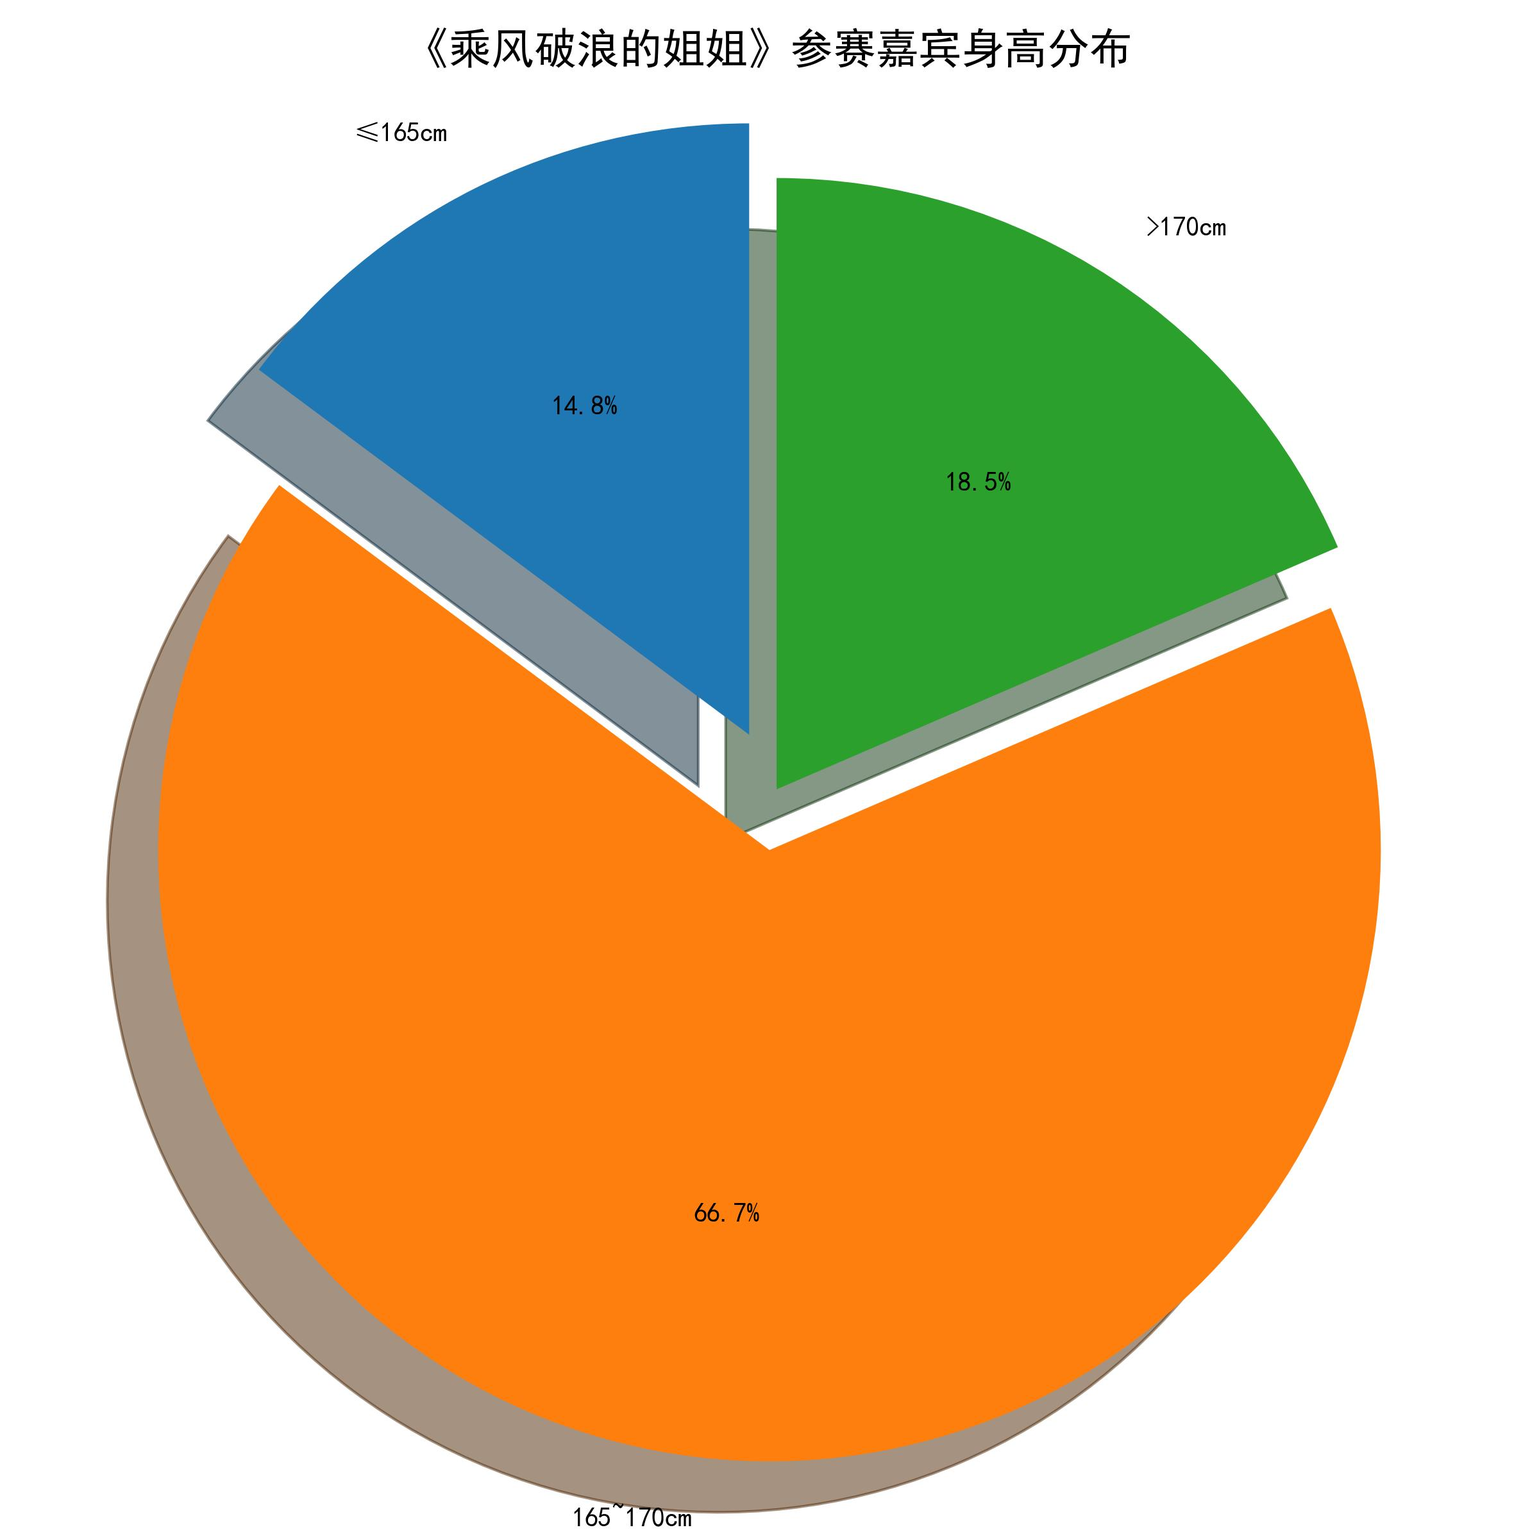
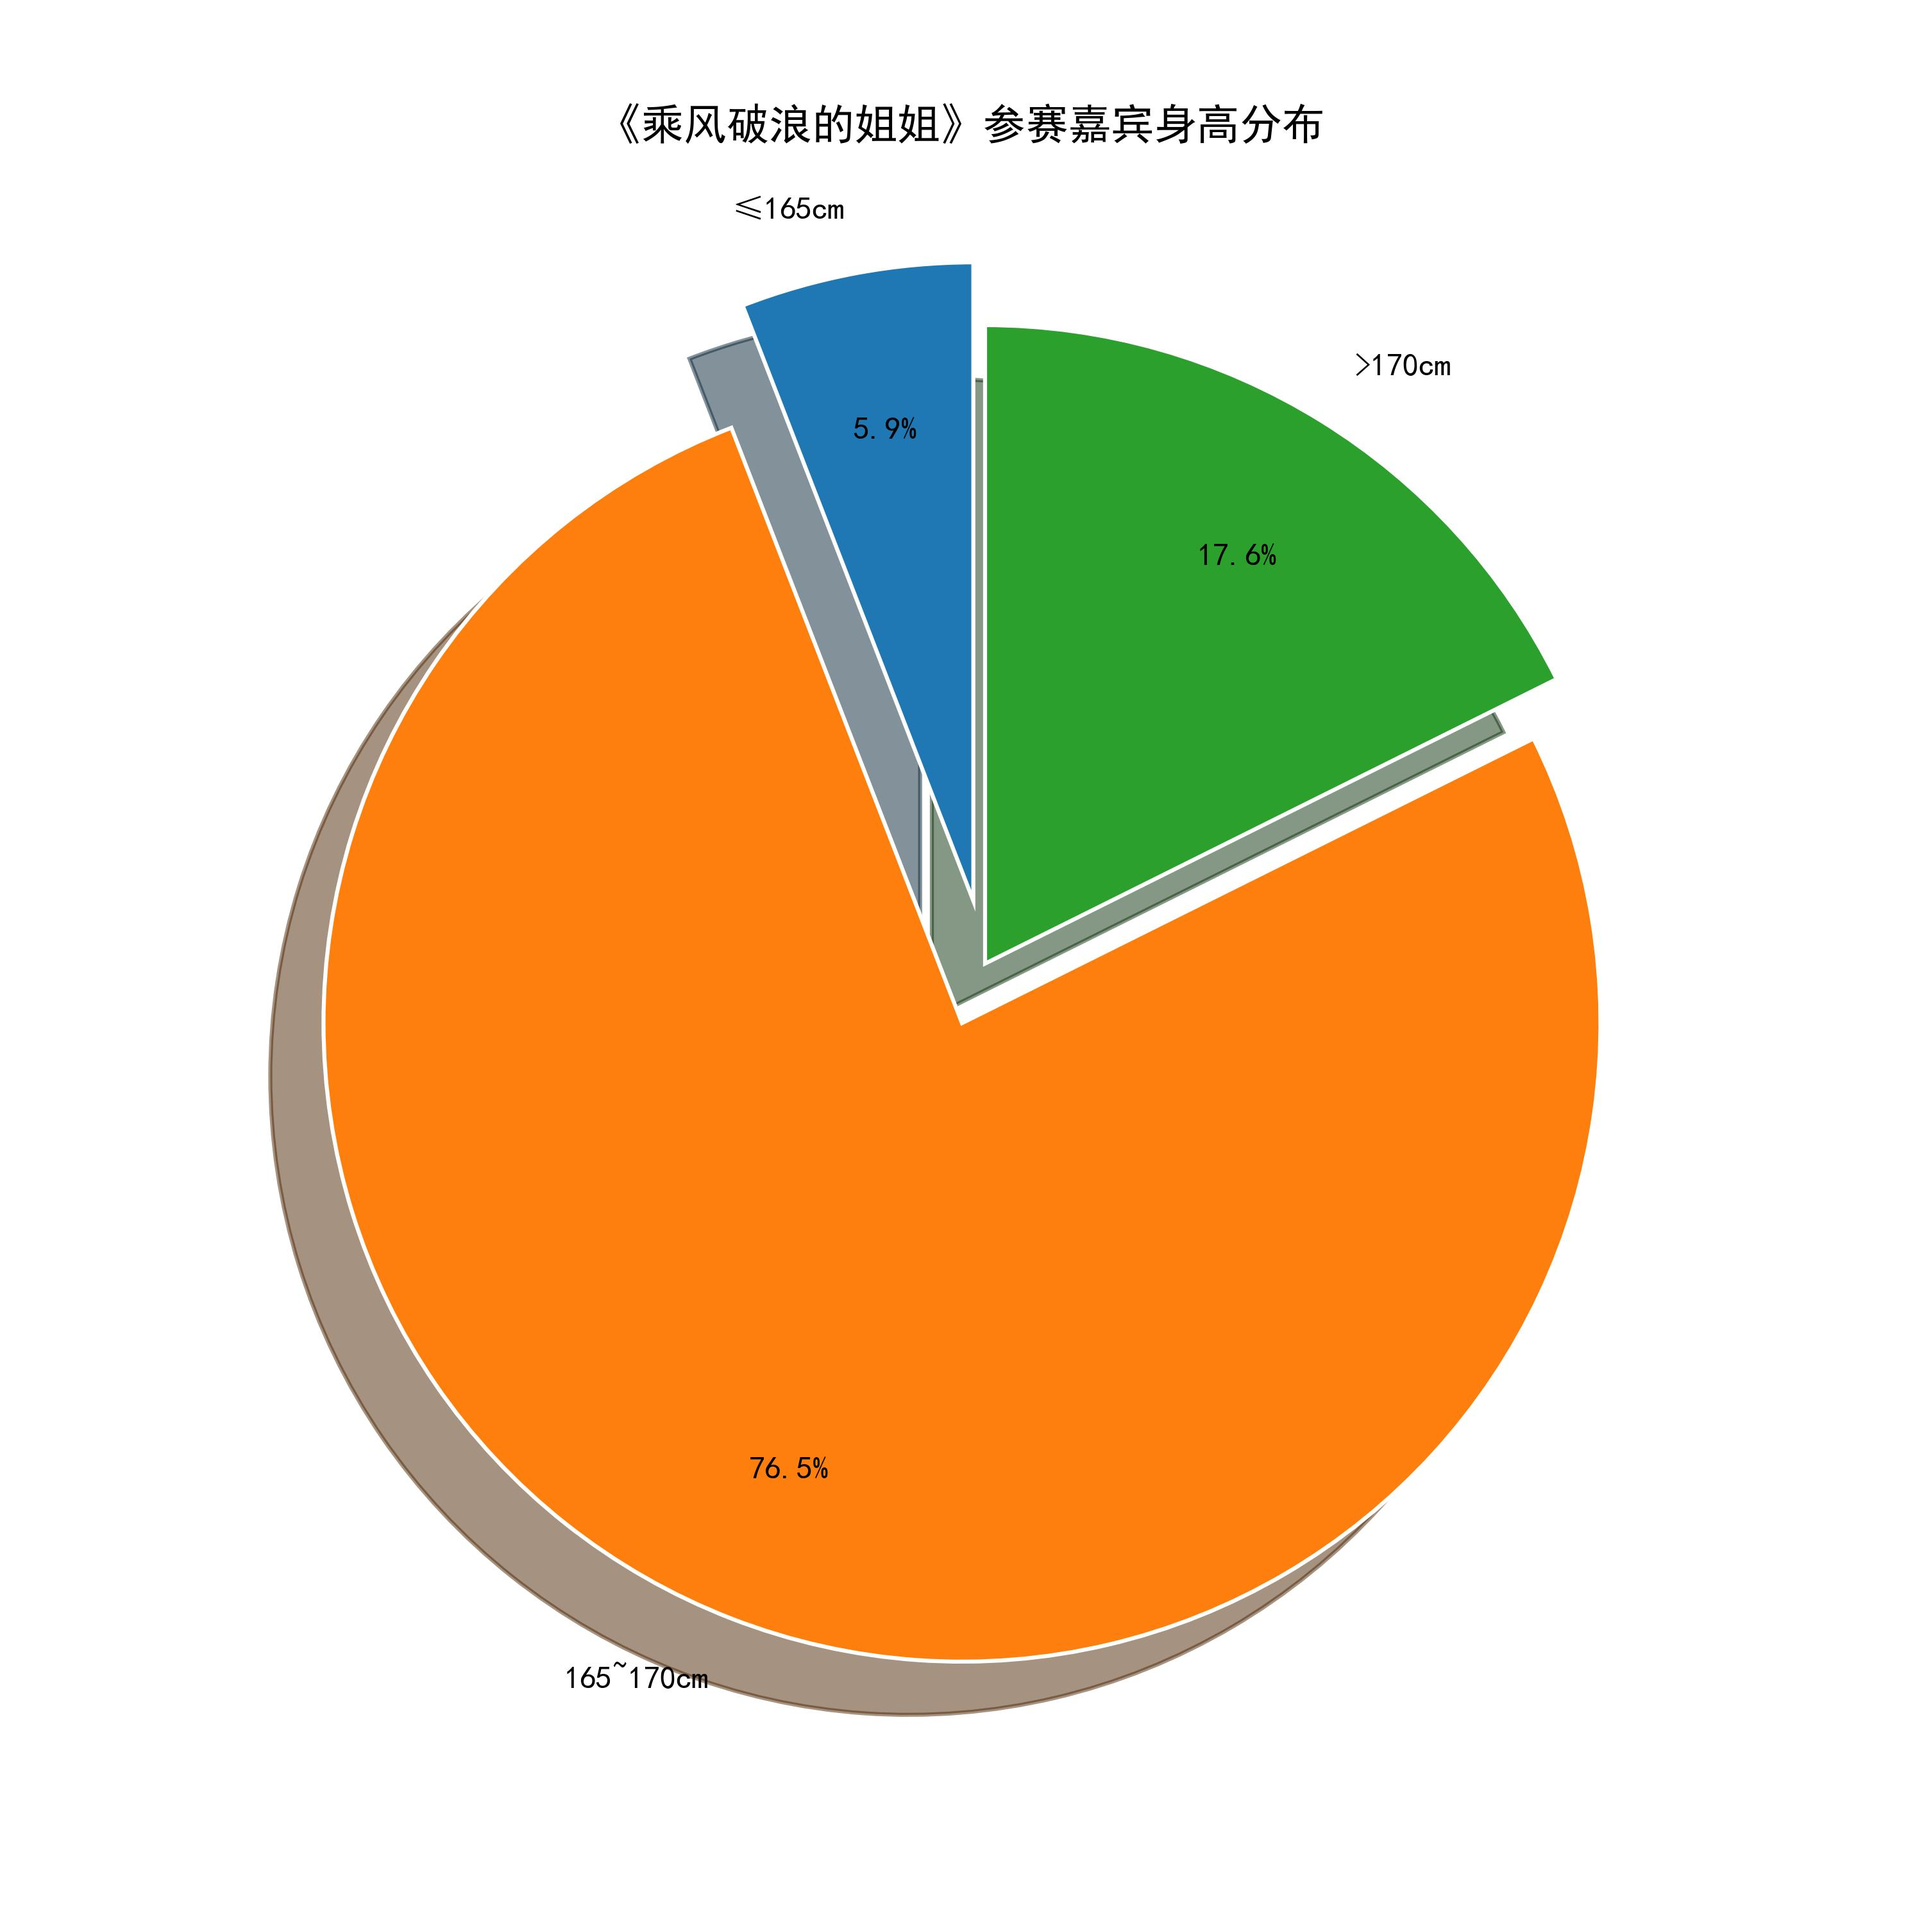
优化爬虫和可视化代码，调整请求间隔，增强数据解析，更新嘉宾信息结构

diff --git a/Lecture7/src/crawl.py b/Lecture7/src/crawl.py
@@ -6,8 +6,6 @@ import re
 import time
 import random
 
-
-# -------------------------- 原有辅助函数（无修改） --------------------------
 def clean_baike_url(url):
     if isinstance(url, str) and '?' in url:
         url = url.split('?')[0]
@@ -27,8 +25,6 @@ def get_random_headers():
     }
     return headers
 
-
-# -------------------------- 原有函数（无修改） --------------------------
 def crawl_wiki_data():
     headers = {
         'User-Agent': 'Mozilla/5.0 (Windows NT 10.0; WOW64) AppleWebKit/537.36 (KHTML, like Gecko) Chrome/67.0.3396.99 Safari/537.36'
@@ -36,7 +32,7 @@ def crawl_wiki_data():
     url = 'https://baike.baidu.com/item/乘风破浪的姐姐'
 
     try:
-        response = requests.get(url, headers=headers)
+        response = requests.get(url, headers=get_random_headers())
         response.raise_for_status()
         soup = BeautifulSoup(response.text, 'lxml')
         tables = soup.find_all('table')
@@ -51,12 +47,6 @@ def crawl_wiki_data():
                 if table.find('a', href=re.compile(r'/item/')):
                     print(f"找到目标表格，标题包含关键词：{title_text}")
                     return table
-
-        for table in tables:
-            a_tags = table.find_all('a', href=re.compile(r'/item/'))
-            if len(a_tags) > 5:
-                print("通过表格特征找到疑似嘉宾表格")
-                return table
 
         print("未找到嘉宾信息表格（页面结构可能已变更）")
         return None
@@ -102,7 +92,6 @@ def parse_wiki_data(table_html):
     print(f"已解析{len(stars)}位嘉宾信息，保存至stars.json")
 
 
-# -------------------------- 修改后：仅保留嘉宾基本信息爬取 --------------------------
 def crawl_everyone_wiki_urls():
     star_json_path = 'work/stars.json'
     if not os.path.exists(star_json_path):
@@ -126,7 +115,7 @@ def crawl_everyone_wiki_urls():
     # 初始化会话
     session = requests.Session()
     star_infos = []
-    request_interval = (1.5, 3)
+    request_interval = (3, 12) 
 
     for idx, star in enumerate(valid_stars, 1):
         name = star['name']
@@ -172,33 +161,31 @@ def crawl_everyone_wiki_urls():
                     elif dt_text in ['出生日期', '出生年月']:
                         year_match = re.search(r'(\d{4})年', dd_text)
                         star_info['birth_year'] = year_match.group(1) if year_match else dd_text
-                print(f"✅ 成功提取{name}基本信息")
+                print(f"成功提取{name}基本信息")
             else:
-                print(f"⚠ 未找到{name}的基本信息模块")
+                print(f"未找到{name}的基本信息模块")
 
             star_infos.append(star_info)
-            print(f"✅ {name}爬取完成")
+            print(f"{name}爬取完成")
 
         except requests.exceptions.HTTPError as e:
             if '403' in str(e):
-                err_msg = f"❌ {name}爬取失败：403反爬拦截（建议添加Cookie）"
+                err_msg = f"{name}爬取失败：403反爬拦截"
             else:
-                err_msg = f"❌ {name}爬取失败：HTTP错误（{str(e)}）"
+                err_msg = f"{name}爬取失败：HTTP错误（{str(e)}）"
             print(err_msg)
             star_infos.append(star_info)
         except Exception as e:
-            print(f"❌ {name}爬取失败：其他错误（{str(e)}）")
+            print(f"{name}爬取失败：其他错误（{str(e)}）")
             star_infos.append(star_info)
             continue
 
-    # 保存信息
     with open('work/stars_info.json', 'w', encoding='UTF-8') as f:
         json.dump(star_infos, f, ensure_ascii=False, indent=2)
     print(f"\n=== 所有爬取任务结束 ===")
     print(f"共处理{len(valid_stars)}位嘉宾，保存至work/stars_info.json")
 
 
-# -------------------------- 入口函数（无修改） --------------------------
 if __name__ == '__main__':
     os.makedirs('work', exist_ok=True)
     wiki_table = crawl_wiki_data()

diff --git a/Lecture7/src/visualize.py b/Lecture7/src/visualize.py
@@ -48,19 +48,28 @@ for star in stars_data:
 if not birth_years:
     print("未找到有效出生年份数据，无法绘制年龄分布图")
 else:
-    birth_year_counts = pd.Series(birth_years).value_counts().sort_index()  # 用pandas简化统计
-    plt.figure(figsize=(15, 8))
+    birth_year_counts = pd.Series(birth_years).value_counts().sort_index()
+
+    plt.figure(figsize=(20, 8))
     plt.bar(
         x=birth_year_counts.index,
         height=birth_year_counts.to_numpy(),
         color='#9999ff',
         edgecolor='white'
     )
-    plt.xticks(birth_year_counts.index, rotation=45, fontsize=12)
+
+    plt.xticks(
+        birth_year_counts.index, 
+        rotation=60,  
+        fontsize=10, 
+        ha='right',  
+        rotation_mode='anchor'  
+    )
     plt.yticks(fontsize=12)
-    plt.title('《乘风破浪的姐姐》参赛嘉宾出生年份分布', fontsize=16)
-    plt.xlabel('出生年份', fontsize=14)
-    plt.ylabel('人数', fontsize=14)
+    plt.title('《乘风破浪的姐姐》参赛嘉宾出生年份分布', fontsize=16, pad=20)
+    plt.xlabel('出生年份', fontsize=14, labelpad=15)  
+    plt.ylabel('人数', fontsize=14, labelpad=15)
+    plt.subplots_adjust(left=0.05, right=0.98, top=0.9, bottom=0.2)
     plt.tight_layout()
     plt.savefig(f'{save_dir}/bar_birth_year.jpg', dpi=300)
     plt.show()
@@ -84,21 +93,27 @@ else:
     bins = [0, 45, 50, 55, float('inf')]
     labels = ['≤45kg', '45~50kg', '50~55kg', '>55kg']
     weight_groups = pd.cut(pd.Series(weights), bins=bins, labels=labels, right=False)
-    weight_counts = weight_groups.value_counts().reindex(labels, fill_value=0)  # 缺失组补0
+    weight_counts = weight_groups.value_counts().reindex(labels, fill_value=0)
 
-    plt.figure(figsize=(8, 8))
+    plt.figure(figsize=(10, 10))  
     explode = (0.1, 0.1, 0, 0)
+
     plt.pie(
         weight_counts,
         explode=explode,
         labels=labels,
         autopct='%1.1f%%',
+        pctdistance=0.75, 
+        labeldistance=1.1, 
         shadow=True,
-        startangle=90
+        startangle=90,
+        textprops={'fontsize': 12},  
+        wedgeprops={'linewidth': 1.5, 'edgecolor': 'white'}  
     )
+    
     plt.axis('equal')
-    plt.title('《乘风破浪的姐姐》参赛嘉宾体重分布', fontsize=16)
-    plt.tight_layout()
+    plt.title('《乘风破浪的姐姐》参赛嘉宾体重分布', fontsize=16, pad=20) 
+    plt.subplots_adjust(left=0.1, right=0.9, top=0.9, bottom=0.1)
     plt.savefig(f'{save_dir}/pie_weight.jpg', dpi=300)
     plt.show()
 
@@ -123,18 +138,24 @@ else:
     height_groups = pd.cut(pd.Series(heights), bins=bins, labels=labels, right=False)
     height_counts = height_groups.value_counts().reindex(labels, fill_value=0)
 
-    plt.figure(figsize=(8, 8))
+    plt.figure(figsize=(10, 10))  # 增大饼图尺寸
     explode = (0.1, 0.1, 0)
+    
     plt.pie(
         height_counts,
         explode=explode,
         labels=labels,
         autopct='%1.1f%%',
+        pctdistance=0.75, 
+        labeldistance=1.1, 
         shadow=True,
-        startangle=90
+        startangle=90,
+        textprops={'fontsize': 12},  
+        wedgeprops={'linewidth': 1.5, 'edgecolor': 'white'} 
     )
+    
     plt.axis('equal')
-    plt.title('《乘风破浪的姐姐》参赛嘉宾身高分布', fontsize=16)
-    plt.tight_layout()
+    plt.title('《乘风破浪的姐姐》参赛嘉宾身高分布', fontsize=16, pad=20)  
+    plt.subplots_adjust(left=0.1, right=0.9, top=0.9, bottom=0.1)
     plt.savefig(f'{save_dir}/pie_height.jpg', dpi=300)
     plt.show()
